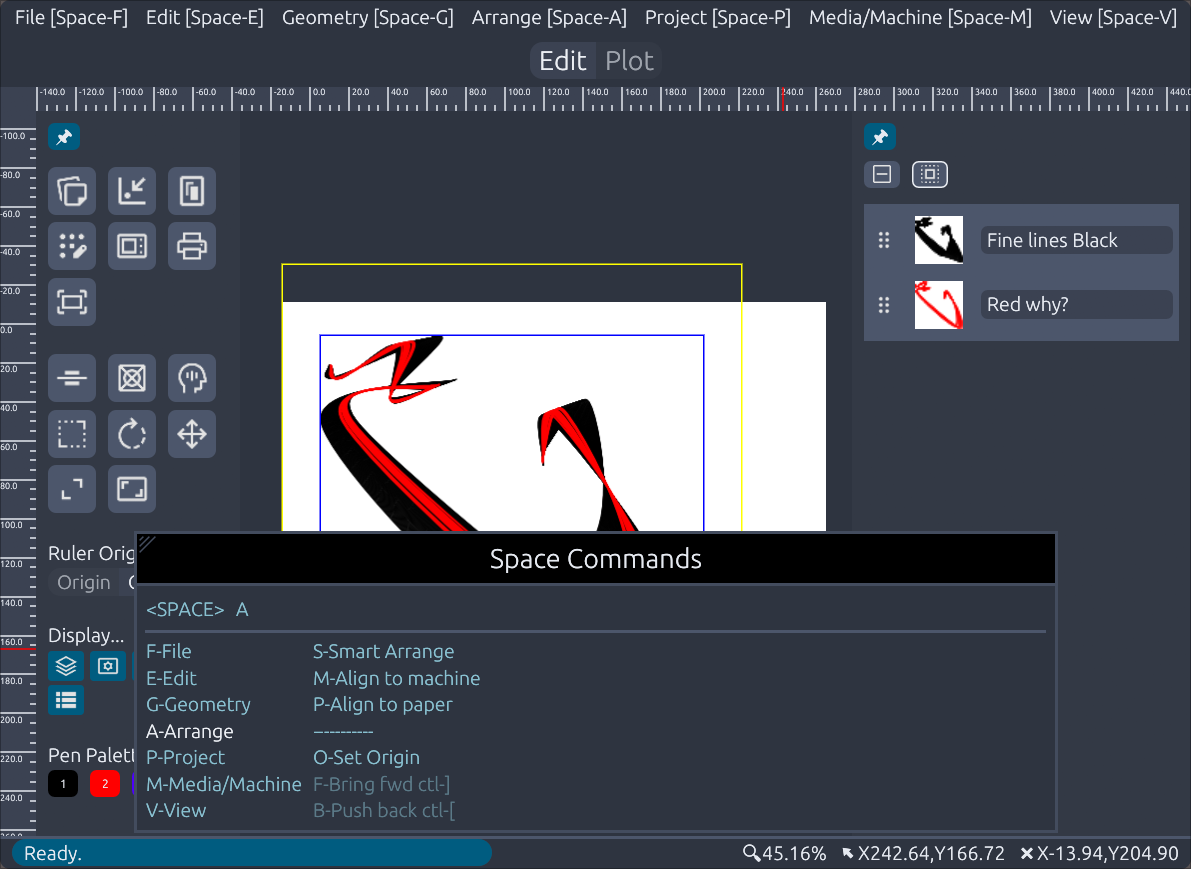
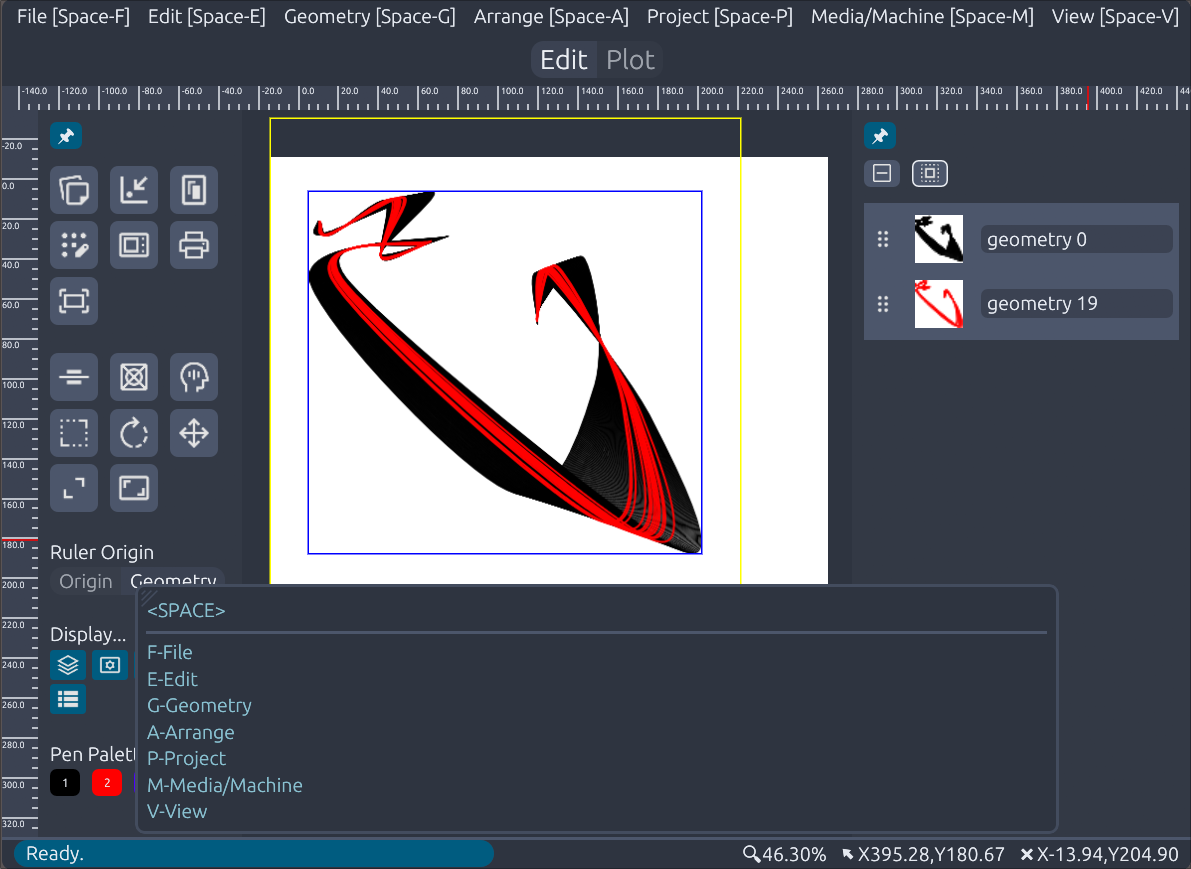
Minor visual fixes.

diff --git a/src/ui/geo_layers.rs b/src/ui/geo_layers.rs
@@ -18,6 +18,7 @@ pub(crate) fn floating_geo_layer_window(
     wtop: f32,
     _toasts: &mut Toasts,
 ) {
+    let corner_radius_save = ctx.style().visuals.window_corner_radius.clone();
     let default_height = ctx.content_rect().height() - wtop - 22.; //23.;
     let win = egui::Window::new("Layers")
         .frame(
@@ -302,4 +303,5 @@ pub(crate) fn floating_geo_layer_window(
                 });
             }); // End scrollarea
     });
+    ctx.style_mut(|style| style.visuals.window_corner_radius = corner_radius_save);
 }

diff --git a/src/ui/space_command_palette.rs b/src/ui/space_command_palette.rs
@@ -87,7 +87,7 @@ pub fn space_command_panel(model: &mut BAPViewModel, ctx: &egui::Context) {
             .collapsible(false)
             .min_width(600.)
             .default_size([600., 300.])
-            .title_bar(true)
+            .title_bar(false)
             .min_size(vec2(600., 300.))
             .show(ctx, |ui| {
                 ui.vertical(|ui| {
